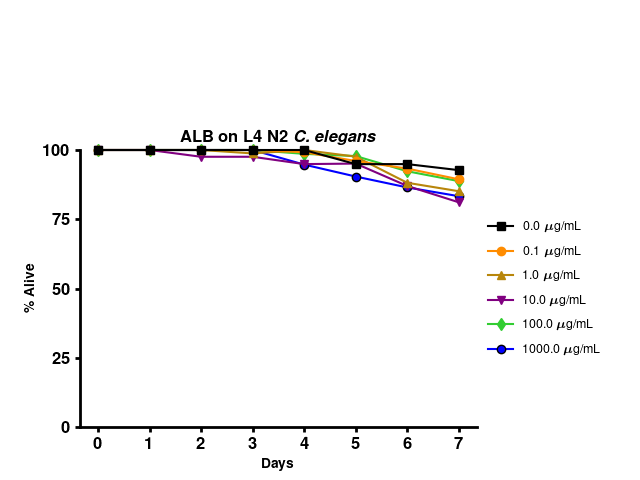
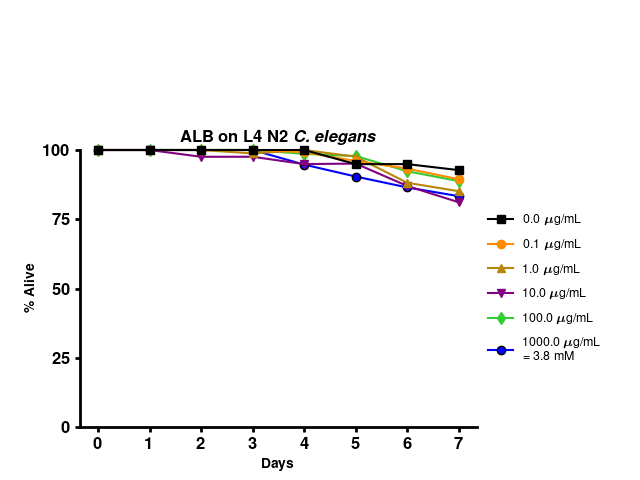
add mM to plot

Changed region(s): [[0.75, 0.4375, 0.9375, 0.75]]

diff --git a/ic50_test.py b/ic50_test.py
@@ -1,6 +1,8 @@
 #!/usr/bin/env python3
 
 '''
+./ic50_test.py --toAssess test_files/kw9_export.txt test_files/kw11_export.txt test_files/kw12_export.txt --expNames kw9 kw11 kw12 --strain N2 --lifestage L4 --drug ALB --concUnits 0 --representative 3 --molarmass 265.333
+
 Y=Bottom + (Top-Bottom)/(1+10^((LogIC50-X)*HillSlope))
 where X is log10([]) with x=0 -> x=1e-6
 '''
@@ -32,14 +34,14 @@ rcParams.update(params)
 def main():
     parser = generate_parser()
     args = parser.parse_args()
-    analysis_instance = WormAnalysis(args.toAssess, args.drug, args.strain, args.stage, args.concUnits, args.reportNum)
+    analysis_instance = WormAnalysis(args.toAssess, args.drug, args.strain, args.stage, args.concUnits, args.molarmass, args.density, args.reportNum)
     if args.plotLine3 or args.plotLine1:
         analysis_instance.driveLinePlots(args.plotLine3, args.plotLine1, args.isep, args.expNames)
     if args.plotIT50 or args.plotLT50:
         analysis_instance.driveSurvivalTimePlots(args.plotIT50, args.plotLT50, args.rep, args.expNames)
     #if args.plotIC50 or args.plotLC50:
     #    analysis_instance.driveIC(args.plotIC50, args.plotLC50, args.C_day, args.x0_val)
-
+    analysis_instance.reportTable(args.expNames[args.rep-1])
 
 def generate_parser():
     parser = ap.ArgumentParser(description='C elegans analysis')
@@ -48,6 +50,8 @@ def generate_parser():
     parser.add_argument('--strain', action='store', dest='strain', type=str, required=True, help='the strain which was treated in the assays (ex. N2 or Hawaii); will be used to annotate plots and tables')
     parser.add_argument('--lifestage', action='store', dest='stage', type=str, required=True, help='the lifestage which was treated in the assays (ex. L1 or L4); will be used to annotate plots and tables')
     parser.add_argument('--drug', action='store', dest='drug', type=str, required=True, help='the drug used in treatment in the assays (ex. ALB, PYR, IVM, or NTZ, etc); will be used to annotate plots and tables; for now this only accepts a single value')
+    parser.add_argument('--molarmass', action='store', dest='molarmass', type=float, required=True, help='the molar mass of the drug used in treatment in the assays. Must be given in the g/mol units')
+    parser.add_argument('--densityLiq', action='store', dest='density', type=float, default=1.0, help='the density of the liquid; must be entered in g/mL; default is that of water (1 g/mL)')
     parser.add_argument('--concUnits', action='store', dest='concUnits', type=int, required=True, help='use to specify the units of the concentration. 0 is ug/mL, 1 is uM, 2 is M, 3 is mM, 4 is nM, 5 is ng/mL, 6 is mg/mL, 7 is mg/kg, 8 is mg/g')
     parser.add_argument('--plotLine3', action='store', dest='plotLine3', type=bool, default=True, help='whether to plot the daily motility response by concentration')
     parser.add_argument('--plotLine1', action='store', dest='plotLine1', type=bool, default=True, help='whether to plot the daily lethality response by concentration')
@@ -64,7 +68,7 @@ def generate_parser():
     return parser
 
 class WormAnalysis():
-    def __init__(self, toAssess, drug, strain, stage, concUnits, reportNum):
+    def __init__(self, toAssess, drug, strain, stage, concUnits, molarmass, density, reportNum):
         self.drug = drug
         self.strain = strain
         self.stage = stage
@@ -86,6 +90,7 @@ class WormAnalysis():
         logging.basicConfig(filename=logfile, level=logging.INFO, filemode='w', format='%(name)s - %(levelname)s - %(asctime)s - %(message)s', datefmt='%d-%b-%y %H:%M:%S')
         logging.info("command used to run analysis:\n {}".format(' '.join(sys.argv)))
         self.load_data(toAssess)
+        self.find_mM(molarmass, density)
         if reportNum:
             self.find_numTotal()
         self.find_motility_index_score()
@@ -97,22 +102,39 @@ class WormAnalysis():
         for i, file in enumerate(toAssess):
             df = pd.read_csv(file, sep='\t', header=0)
             if i == 0:
+                '''find unique concentrations'''
                 self.uniq_conc = np.unique(df.loc[:,'Concentration'])
+
+                '''Make a data frame to store computed values in throughout the analysis'''
+                index = []
+                units = np.tile(self.concUnits_dict[self.concUnits], self.uniq_conc.shape[0])
+                for conc, unit in zip(self.uniq_conc, units):
+                    index.append(r'\textbf{%s %s}' % (conc,unit))
+                self.df_table = pd.DataFrame(index=index)
+                self.df_table.index.name='Concentration'
+
+                '''set some dictionaries for mapping'''
                 self.conc_index = {}
                 self.index_to_conc = {}
                 for k,c in enumerate(self.uniq_conc):
                     self.conc_index[float(c)] = k
                     self.index_to_conc[k] = float(c)
+
+                '''initialize arrays for storing data'''
                 self.num_concentrations = len(self.uniq_conc)
                 self.num_days = len(np.unique(df.loc[:,'Day']))
                 self.scores3_by_well = np.zeros((self.num_concentrations*3, 4, self.num_days, self.num_experiments)) #num_concentrations*3 because concentrations for each experiment should be in triplicate, 4 because of 0-1-2-3 scoring, num_days, and num_experiments
                 self.scores3_by_conc = np.zeros((self.num_concentrations, 4, self.num_days, self.num_experiments))
+
+                '''set some more dictionaries for mapping'''
                 self.well_index_to_conc = {}
                 self.conc_to_well_index = {}
                 for well, conc in zip(np.array(df.loc[:, 'Well']).astype(np.int32)[0:self.num_concentrations*3], np.array(df.loc[:,'Concentration'])[0:self.num_concentrations*3]):
                     well_index = well-1
                     self.well_index_to_conc[well_index] = float(conc)
                     self.conc_to_well_index[float(conc)] = well_index
+
+            '''fill arrays'''
             for j, line in enumerate(open(file)):
                 if j != 0:
                     fields=line.strip('\r\n').split('\t')
@@ -139,15 +161,37 @@ class WormAnalysis():
             if num_trues != np.sum(df.loc[:,'numTotal_equal']):
                 logging.warning('wells in {} do not have equal numbers of worms in a given well across the length of the experiment'.format(file))
 
+    def find_mM(self, molarmass, density):
+        '''Questions: 1) what density is reasonable to assume 2) only 2 significant digits??'''
+        ''' given x (molarmass) of x g/mole, y max concentration of units corresponding to dictionary key, and z g/mL density
+           do the following to find the equivalent mM of the max concentration
+           ug/mL -> mM: 1 mole / x g | 1 g / 1e6 ug | y ug / 1 mL | 1e3 mL / 1 L | 1e3 mM / M
+           uM -> mM: y uM | 1 mM / 1e3 uM
+           M -> mM : y M | 1e3 mM / 1 M
+           mM = mM
+           nM -> mM: y nM | 1 mM / 1e6 nM
+           ng/mL -> mM: 1 mole / x g | 1 g / 1e9 ng | y ng / 1 mL | 1e3 mL / 1L | 1e3 mM / M
+           mg/mL -> mM: 1 mole / x g | 1 g / 1e3 mg | y mg / mL | 1e3 mL / 1L | 1e3 mM / M
+           mg/kg -> mM: 1 mole / x g | 1 g / 1e3 mg | y mg / kg | 1e3 kg / 1g | z g / 1 mL | 1e3 mL / 1 L | 1e3 mM / M
+           mg/g -> mM : 1 mole / x g | 1 g / 1e3 mg | y mg / g | z g / 1 mL | 1e3 mL / 1 L | 1e3 mM / M
+           '''
+        mM_dict = {0: 1/molarmass/1e6*np.amax(self.uniq_conc)*1e3*1e3,
+                   1: np.amax(self.uniq_conc)/1e3,
+                   2: np.amax(self.uniq_conc)*1e3,
+                   3: np.amax(self.uniq_conc),
+                   4: np.amax(self.uniq_conc)/1e6,
+                   5: 1/molarmass/1e9*np.amax(self.uniq_conc)*1e3*1e3,
+                   6: 1/molarmass/1e3*np.amax(self.uniq_conc)*1e3*1e3,
+                   7: 1/molarmass/1e3*np.amax(self.uniq_conc)*1e3*density*1e3*1e3,
+                   8: 1/molarmass/1e3*np.amax(self.uniq_conc)*density*1e3*1e3}
+
+        self.mM = '{0:.1f}'.format(mM_dict[self.concUnits])
+
     def find_numTotal(self):
         total_nums = np.sum(self.scores3_by_conc[:,:,0,:].reshape(-1, 4*self.num_experiments), axis=1)
-        filename = 'table1_equiv_numTreated_{}_{}_{}.txt'.format(self.drug, self.stage, self.strain)
-        toWriteTo = open(filename, 'w+')
-        toWriteTo.write('Number of nematodes treated\n{} on {} {} _C. elegans_\n'.format(self.drug, self.stage, self.strain))
-        for i in range(self.uniq_conc.shape[0]):
-            toWriteTo.write('{} {}:\t{}\n'.format(self.uniq_conc[i], self.concUnits_dict[self.concUnits], int(total_nums[i])))
-        toWriteTo.close()
-        logging.info("Wrote total number of nematodes treated by concentration to the file {}".format(filename))
+        self.df_table[r'\textbf{Number of Nematodes Treated}'] = total_nums.astype(np.int32)
+        logging.info("Added the total number of nematodes treated by concentration to the table which will be printed later. Column name is 'Number of Nematodes Treated'")
+
 
     def find_motility_index_score(self):
         '''setting motility index score
@@ -224,7 +268,10 @@ class WormAnalysis():
         ax = self.format_plots(ax, title, xlabel, ylabel, ymin, ymax, ysep, days_arr)
 
         for i in range(toPlot.shape[0])[::-1]:
-            label = "{} {}".format(self.uniq_conc[i], self.concUnits_dict[self.concUnits])
+            if i == toPlot.shape[0]-1:
+                label = "{} {}\n= {} mM".format(self.uniq_conc[i], self.concUnits_dict[self.concUnits], self.mM)
+            else:
+                label = "{} {}".format(self.uniq_conc[i], self.concUnits_dict[self.concUnits])
             ax.plot(days_arr, toPlot[i], c=self.conc_colors_lo_to_hi[i], marker=self.conc_markers_lo_to_hi[i], markeredgecolor=self.conc_marker_outline_lo_to_hi[i], label=label, clip_on = False)
 
         '''shrink and set legend'''
@@ -300,26 +347,22 @@ class WormAnalysis():
         if motility:
             num_at_risk = toAnalyze_expSpec[:,3,:] #num at risk is only worms of score
             num_at_risk_corrected = np.minimum.accumulate(num_at_risk, axis=1)
-            logging_value = 'IT50'
+            logging_value = r'\textbf{IT50}'
+            logging_value2 = 'IT50'
         if mortality:
             num_at_risk = np.sum(toAnalyze_expSpec[:,1:,:], axis=1) #num at risk is any worm of score 1, 2, or 3
             num_at_risk_corrected = np.minimum.accumulate(num_at_risk, axis=1)
-            logging_value = 'LT50'
+            logging_value = r'\textbf{LT50}'
+            logging_value2 = 'LT50'
         toPopulate[:, 1:] = num_at_risk_corrected/num_total*100
 
         '''report day or U'''
-        filename = 'table2_equiv_{}_{}_{}_{}_{}.txt'.format(logging_value, self.drug, self.stage, self.strain, expName)
-        toWriteTo = open(filename, 'w+')
-        toWriteTo.write('The {} values for \n{} on {} {} _C. elegans_\n with {} as the representative experiment analyzed\n'.format(logging_value, self.drug, self.stage, self.strain, expName))
-        for i in range(self.uniq_conc.shape[0]):
-            below50 = np.sum(toPopulate[i] <= 50.0)
-            if below50 == 0:
-                T50 = 'U'
-            else:
-                T50 = self.num_days + 1 - below50
-            toWriteTo.write('{} {}:\t{}\n'.format(self.uniq_conc[i], self.concUnits_dict[self.concUnits], T50))
-        toWriteTo.close()
-        logging.info("Wrote the {} values to the file {}".format(logging_value, filename))
+        T50 = np.sum(toPopulate <= 50.0, axis=1)
+        T50 = (self.num_days + 1 - T50).astype(str)
+        bool_U = T50 == str(self.num_days + 1)
+        T50[bool_U] = 'U'
+        self.df_table[logging_value] = T50
+        logging.info("Added the %s values to the table which will be printed later. Column name is '%s'" %(logging_value2, logging_value2))
 
         return toPopulate
 
@@ -390,7 +433,19 @@ class WormAnalysis():
         self.x0_val = x0_val
 
 
-
+    def reportTable(self, rep_exp):
+        fig, ax = plt.subplots()
+        #hide axes
+        fig.patch.set_visible(False)
+        ax.axis('off')
+        ax.axis('tight')
+        #write table
+        ax.table(cellText=self.df_table.values, colLabels=self.df_table.columns, rowLabels=self.df_table.index, cellLoc = 'center', loc='center')
+        fig.tight_layout()
+        filename='table_{}_{}_{}_{}.pdf'.format(self.drug, self.stage, self.strain, rep_exp)
+        fig.savefig(filename, format='pdf')
+        plt.close(fig)
+        logging.info('Wrote table of computed values to {}'.format(filename))
 
 
 main()
